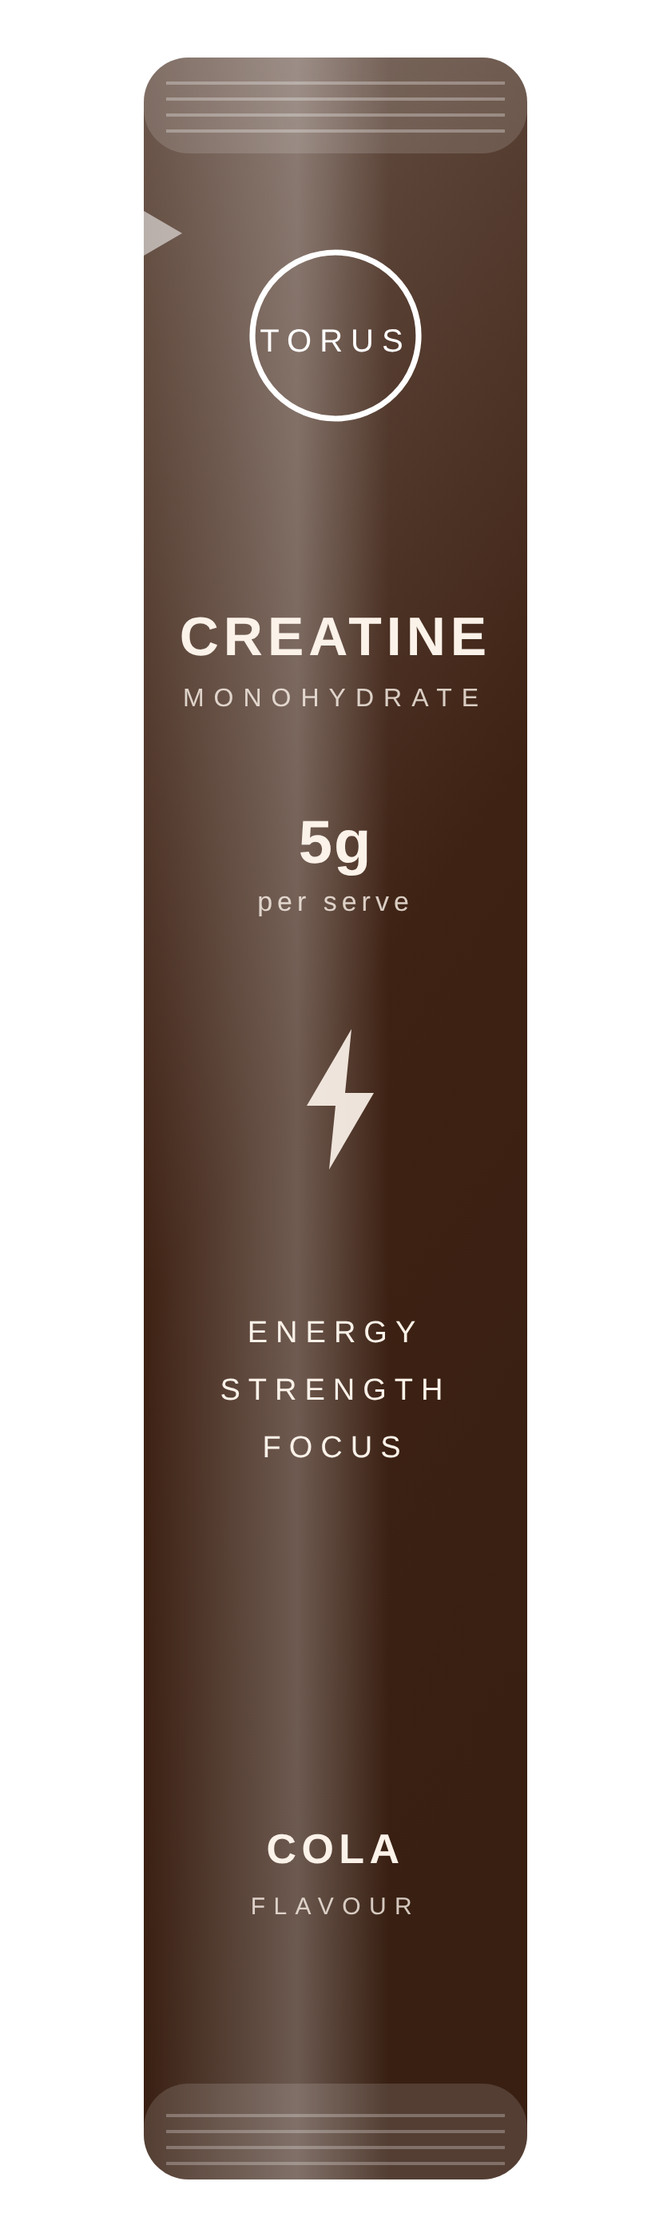
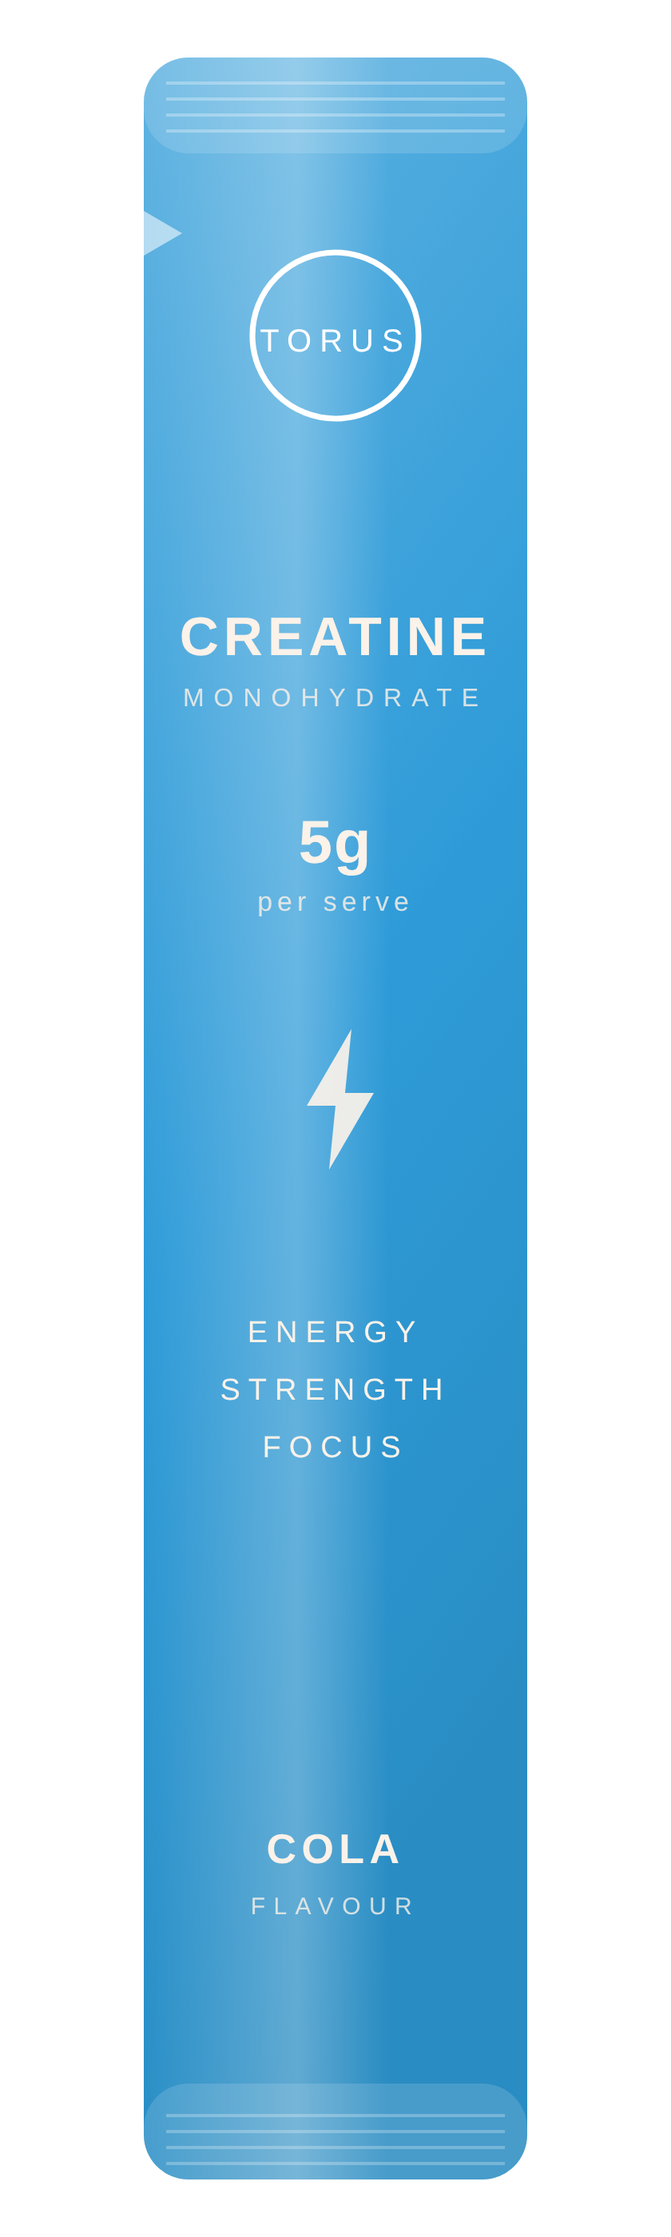
Add files via upload

diff --git a/site/product.html b/site/product.html
@@ -10,7 +10,7 @@
   --ink:#1A1613; --cream:#FBF3EF; --paper:#FFFFFF; --muted:#6C6353; --soft:#EFE7D9;
   --line:rgba(26,22,19,.10); --accent:#E2482F; --accent2:#F2A20C;
   --cb:#5E4230; --mg:#ED9A0C; --sb:#C8253A; --pf:#E2620F; --gp:#55348F;
-  --co:#3E2214; --rl:#BE335F; --pn:#F0824E; --wm:#ED4A60;
+  --co:#2E9BD8; --rl:#BE335F; --pn:#F0824E; --wm:#ED4A60;
   --stone:#8C8378; --warm:#F7F1E6; --blue:#4A90C2; --sky:#EEF4FB; --pink:#E36B8A;
   --yellow:#F2A20C; --mint:#3FB58A; --purple:#7A5BD8; --coral:#E2482F;
 }
@@ -125,7 +125,7 @@ p{margin:0}
 .life p{margin-top:16px;font-size:16.5px;line-height:1.62;color:var(--muted);max-width:430px}
 .life-badges{display:flex;gap:10px;flex-wrap:wrap;margin:22px 0 26px}
 .life-photo{position:relative;height:500px;border-radius:26px;overflow:hidden;
-  background:linear-gradient(150deg,#FFE1C6,#FFC7D2 55%,#CFE0FA);box-shadow:0 30px 60px -30px rgba(70,40,20,.4)}
+  background:linear-gradient(rgba(18,12,8,.10),rgba(18,12,8,.22)),url(photos/lifeguard.jpg) left center/cover;box-shadow:0 30px 60px -30px rgba(70,40,20,.4)}
 .life-photo .note{position:absolute;inset:0;display:grid;place-items:center;text-align:center;padding:24px}
 .life-photo .note span{font-family:'Jost',sans-serif;font-weight:500;font-size:12.5px;letter-spacing:.06em;color:rgba(26,22,19,.6);
   border:1.5px dashed rgba(26,22,19,.35);border-radius:100px;padding:10px 20px;background:rgba(255,255,255,.5)}
@@ -188,11 +188,18 @@ p{margin:0}
 .rev .who{font-family:'Jost',sans-serif;font-weight:500;font-size:12px;color:var(--muted);text-transform:uppercase;letter-spacing:.08em;margin-top:auto}
 
 /* big cta */
-.cta{position:relative;overflow:hidden;background:linear-gradient(135deg,#E2482F,#F2842C);color:#fff}
+.cta{position:relative;overflow:hidden;background:linear-gradient(rgba(226,72,47,.50),rgba(178,42,18,.62)),url(photos/flag-tower.jpg) center 64%/cover;color:#fff}
 .cta-in{position:relative;z-index:2;text-align:center;padding:96px 0}
 .cta-in h2{font-size:60px;font-weight:400;color:#fff}
 .cta-in p{margin:18px auto 0;font-size:18px;max-width:500px;color:#fff;opacity:.95}
 .cta-note{margin-top:16px;font-family:'Caveat',cursive;font-weight:600;font-size:22px;color:#fff}
+
+/* Gold Coast photo band */
+.gcband{position:relative;min-height:460px;display:grid;place-items:center;color:#fff;
+  background:linear-gradient(rgba(15,20,30,.42),rgba(15,20,30,.52)),url(photos/skyline.jpg) center 42%/cover}
+.gcband-in{position:relative;z-index:2;text-align:center;max-width:680px;padding:80px 24px}
+.gcband h2{font-size:48px;font-weight:400;color:#fff;margin-top:14px}
+.gcband p{margin-top:16px;font-size:17px;line-height:1.6;color:#fff;opacity:.92}
 
 /* faq */
 .faq{max-width:860px;margin:52px auto 0}
@@ -369,7 +376,7 @@ img,svg{max-width:100%}
         <p class="desc">Smooth roasted coffee, 5g of creatine monohydrate, and nothing that tastes like a supplement. Stir it into your morning and the daily habit takes care of itself.</p>
         <div style="font-family:'Jost';font-weight:600;font-size:12px;letter-spacing:.14em;text-transform:uppercase;color:var(--stone);margin-top:24px">Choose flavour</div>
         <div class="swatches">
-          <div class="sw on" style="background:#5E4230" title="Cold Brew"></div><div class="sw" style="background:#ED9A0C" title="Tropical Mango"></div><div class="sw" style="background:#C8253A" title="Strawberry"></div><div class="sw" style="background:#E2620F" title="Passionfruit Crush"></div><div class="sw" style="background:#55348F" title="Grape"></div><div class="sw" style="background:#3E2214" title="Cola"></div><div class="sw" style="background:#BE335F" title="Raspberry Lemonade"></div><div class="sw" style="background:#F0824E" title="Peach Nectar"></div><div class="sw" style="background:#ED4A60" title="Watermelon"></div>
+          <div class="sw on" style="background:#5E4230" title="Cold Brew"></div><div class="sw" style="background:#ED9A0C" title="Tropical Mango"></div><div class="sw" style="background:#C8253A" title="Strawberry"></div><div class="sw" style="background:#E2620F" title="Passionfruit Crush"></div><div class="sw" style="background:#55348F" title="Grape"></div><div class="sw" style="background:#2E9BD8" title="Cola"></div><div class="sw" style="background:#BE335F" title="Raspberry Lemonade"></div><div class="sw" style="background:#F0824E" title="Peach Nectar"></div><div class="sw" style="background:#ED4A60" title="Watermelon"></div>
         </div>
         <div class="plan">
           <div class="opt on"><div class="t">Subscribe · save [X]%</div><div class="s">Delivered every [4] weeks. Pause any time.</div></div>

diff --git a/site/contact.html b/site/contact.html
@@ -10,7 +10,7 @@
   --ink:#1A1613; --cream:#FBF3EF; --paper:#FFFFFF; --muted:#6C6353; --soft:#EFE7D9;
   --line:rgba(26,22,19,.10); --accent:#E2482F; --accent2:#F2A20C;
   --cb:#5E4230; --mg:#ED9A0C; --sb:#C8253A; --pf:#E2620F; --gp:#55348F;
-  --co:#3E2214; --rl:#BE335F; --pn:#F0824E; --wm:#ED4A60;
+  --co:#2E9BD8; --rl:#BE335F; --pn:#F0824E; --wm:#ED4A60;
   --stone:#8C8378; --warm:#F7F1E6; --blue:#4A90C2; --sky:#EEF4FB; --pink:#E36B8A;
   --yellow:#F2A20C; --mint:#3FB58A; --purple:#7A5BD8; --coral:#E2482F;
 }
@@ -125,7 +125,7 @@ p{margin:0}
 .life p{margin-top:16px;font-size:16.5px;line-height:1.62;color:var(--muted);max-width:430px}
 .life-badges{display:flex;gap:10px;flex-wrap:wrap;margin:22px 0 26px}
 .life-photo{position:relative;height:500px;border-radius:26px;overflow:hidden;
-  background:linear-gradient(150deg,#FFE1C6,#FFC7D2 55%,#CFE0FA);box-shadow:0 30px 60px -30px rgba(70,40,20,.4)}
+  background:linear-gradient(rgba(18,12,8,.10),rgba(18,12,8,.22)),url(photos/lifeguard.jpg) left center/cover;box-shadow:0 30px 60px -30px rgba(70,40,20,.4)}
 .life-photo .note{position:absolute;inset:0;display:grid;place-items:center;text-align:center;padding:24px}
 .life-photo .note span{font-family:'Jost',sans-serif;font-weight:500;font-size:12.5px;letter-spacing:.06em;color:rgba(26,22,19,.6);
   border:1.5px dashed rgba(26,22,19,.35);border-radius:100px;padding:10px 20px;background:rgba(255,255,255,.5)}
@@ -188,11 +188,18 @@ p{margin:0}
 .rev .who{font-family:'Jost',sans-serif;font-weight:500;font-size:12px;color:var(--muted);text-transform:uppercase;letter-spacing:.08em;margin-top:auto}
 
 /* big cta */
-.cta{position:relative;overflow:hidden;background:linear-gradient(135deg,#E2482F,#F2842C);color:#fff}
+.cta{position:relative;overflow:hidden;background:linear-gradient(rgba(226,72,47,.50),rgba(178,42,18,.62)),url(photos/flag-tower.jpg) center 64%/cover;color:#fff}
 .cta-in{position:relative;z-index:2;text-align:center;padding:96px 0}
 .cta-in h2{font-size:60px;font-weight:400;color:#fff}
 .cta-in p{margin:18px auto 0;font-size:18px;max-width:500px;color:#fff;opacity:.95}
 .cta-note{margin-top:16px;font-family:'Caveat',cursive;font-weight:600;font-size:22px;color:#fff}
+
+/* Gold Coast photo band */
+.gcband{position:relative;min-height:460px;display:grid;place-items:center;color:#fff;
+  background:linear-gradient(rgba(15,20,30,.42),rgba(15,20,30,.52)),url(photos/skyline.jpg) center 42%/cover}
+.gcband-in{position:relative;z-index:2;text-align:center;max-width:680px;padding:80px 24px}
+.gcband h2{font-size:48px;font-weight:400;color:#fff;margin-top:14px}
+.gcband p{margin-top:16px;font-size:17px;line-height:1.6;color:#fff;opacity:.92}
 
 /* faq */
 .faq{max-width:860px;margin:52px auto 0}
@@ -273,6 +280,9 @@ p{margin:0}
     .form label{display:block;font-family:'Jost';font-weight:600;font-size:13px;margin:16px 0 6px}
     .form input,.form textarea{width:100%;border:1px solid var(--line);border-radius:12px;padding:13px 14px;font-family:'Inter';font-weight:600;font-size:15px;background:var(--warm)}
     .form textarea{min-height:120px;resize:vertical}
+    .jeep-hero{position:relative;overflow:hidden;text-align:center;
+      background:linear-gradient(rgba(12,14,20,.52),rgba(12,14,20,.62)),url(photos/jeep.jpg) center 42%/cover}
+    .jeep-hero h1,.jeep-hero p,.jeep-hero .eyebrow{position:relative;z-index:2}
   </style>
 <style>
 .nav-links a.on{color:var(--accent)}
@@ -318,11 +328,11 @@ img,svg{max-width:100%}
     <a href="index.html" class="mark m50"><span>TORUS</span></a>
     <div class="nav-links"><a href="shop.html">Shop</a><a href="name.html">The Name</a><a href="science.html">Science</a><a href="reviews.html">Reviews</a><a href="reviews.html#faq">FAQ</a><a href="shop.html" class="btn sm">Shop now</a></div>
   </div></div>
-<div class="subhero bg-mint" style="padding-bottom:44px"><div class="dotgrid"></div><div class="glow" style="width:400px;height:400px;background:#B9F0DC;opacity:.16;top:-130px;right:-70px"></div>
+<div class="subhero jeep-hero" style="padding:100px 0 88px">
   <div class="wrap">
-    <div class="eyebrow">Say hello</div>
-    <h1>Let's talk.</h1>
-    <p>Questions about a flavour, an order, wholesale or press? We're quick to reply — usually within [one working day].</p>
+    <div class="eyebrow" style="color:#fff;opacity:.9">Say hello</div>
+    <h1 style="color:#fff">Let's talk.</h1>
+    <p style="color:#fff;opacity:.92">Questions about a flavour, an order, wholesale or press? We're quick to reply — usually within [one working day].</p>
   </div>
 </div>
 <section class="sec" style="padding-top:40px">

diff --git a/site/index.html b/site/index.html
@@ -10,7 +10,7 @@
   --ink:#1A1613; --cream:#FBF3EF; --paper:#FFFFFF; --muted:#6C6353; --soft:#EFE7D9;
   --line:rgba(26,22,19,.10); --accent:#E2482F; --accent2:#F2A20C;
   --cb:#5E4230; --mg:#ED9A0C; --sb:#C8253A; --pf:#E2620F; --gp:#55348F;
-  --co:#3E2214; --rl:#BE335F; --pn:#F0824E; --wm:#ED4A60;
+  --co:#2E9BD8; --rl:#BE335F; --pn:#F0824E; --wm:#ED4A60;
   --stone:#8C8378; --warm:#F7F1E6; --blue:#4A90C2; --sky:#EEF4FB; --pink:#E36B8A;
   --yellow:#F2A20C; --mint:#3FB58A; --purple:#7A5BD8; --coral:#E2482F;
 }
@@ -125,7 +125,7 @@ p{margin:0}
 .life p{margin-top:16px;font-size:16.5px;line-height:1.62;color:var(--muted);max-width:430px}
 .life-badges{display:flex;gap:10px;flex-wrap:wrap;margin:22px 0 26px}
 .life-photo{position:relative;height:500px;border-radius:26px;overflow:hidden;
-  background:linear-gradient(150deg,#FFE1C6,#FFC7D2 55%,#CFE0FA);box-shadow:0 30px 60px -30px rgba(70,40,20,.4)}
+  background:linear-gradient(rgba(18,12,8,.10),rgba(18,12,8,.22)),url(photos/lifeguard.jpg) left center/cover;box-shadow:0 30px 60px -30px rgba(70,40,20,.4)}
 .life-photo .note{position:absolute;inset:0;display:grid;place-items:center;text-align:center;padding:24px}
 .life-photo .note span{font-family:'Jost',sans-serif;font-weight:500;font-size:12.5px;letter-spacing:.06em;color:rgba(26,22,19,.6);
   border:1.5px dashed rgba(26,22,19,.35);border-radius:100px;padding:10px 20px;background:rgba(255,255,255,.5)}
@@ -188,11 +188,18 @@ p{margin:0}
 .rev .who{font-family:'Jost',sans-serif;font-weight:500;font-size:12px;color:var(--muted);text-transform:uppercase;letter-spacing:.08em;margin-top:auto}
 
 /* big cta */
-.cta{position:relative;overflow:hidden;background:linear-gradient(135deg,#E2482F,#F2842C);color:#fff}
+.cta{position:relative;overflow:hidden;background:linear-gradient(rgba(226,72,47,.50),rgba(178,42,18,.62)),url(photos/flag-tower.jpg) center 64%/cover;color:#fff}
 .cta-in{position:relative;z-index:2;text-align:center;padding:96px 0}
 .cta-in h2{font-size:60px;font-weight:400;color:#fff}
 .cta-in p{margin:18px auto 0;font-size:18px;max-width:500px;color:#fff;opacity:.95}
 .cta-note{margin-top:16px;font-family:'Caveat',cursive;font-weight:600;font-size:22px;color:#fff}
+
+/* Gold Coast photo band */
+.gcband{position:relative;min-height:460px;display:grid;place-items:center;color:#fff;
+  background:linear-gradient(rgba(15,20,30,.42),rgba(15,20,30,.52)),url(photos/skyline.jpg) center 42%/cover}
+.gcband-in{position:relative;z-index:2;text-align:center;max-width:680px;padding:80px 24px}
+.gcband h2{font-size:48px;font-weight:400;color:#fff;margin-top:14px}
+.gcband p{margin-top:16px;font-size:17px;line-height:1.6;color:#fff;opacity:.92}
 
 /* faq */
 .faq{max-width:860px;margin:52px auto 0}
@@ -375,7 +382,6 @@ img,svg{max-width:100%}
         <a href="shop.html" class="btn">Shop the range</a>
       </div>
       <div class="life-photo">
-        <div class="note"><span>Drop in your annotated lifestyle photo</span></div>
         <span class="hand lp-1">good stuff! <svg class="dood" width="30" height="28" viewBox="0 0 30 28" fill="none" stroke="currentColor" stroke-width="2.4" stroke-linecap="round"><path d="M15 25C6 18 3 12 6 7c2-3 6-3 9 1 3-4 7-4 9-1 3 5 0 11-9 18z"/></svg></span>
         <span class="hand lp-2">small sachet…<br>big vibes</span>
         <span class="dood d1"><svg class="dood" width="26" height="26" viewBox="0 0 26 26" fill="none" stroke="currentColor" stroke-width="2.2" stroke-linecap="round"><path d="M13 2v8M13 16v8M2 13h8M16 13h8"/></svg></span>
@@ -569,6 +575,15 @@ img,svg{max-width:100%}
         <div class="faq-row"><div class="faq-q">Is it only for the gym?</div><div class="faq-a">No — the evidence covers strength and recovery, and research into focus and mental stamina is growing fast.</div></div>
         <div class="faq-row"><div class="faq-q">Is it vegan and sugar-free?</div><div class="faq-a">[Confirm your formulation] — creatine monohydrate itself is vegan-friendly. Add your sweetener, allergen and dietary details here.</div></div>
       </div>
+    </div>
+  </section>
+
+  <!-- GOLD COAST BAND -->
+  <section class="gcband">
+    <div class="gcband-in">
+      <div class="eyebrow" style="color:#fff;opacity:.9">Made on the Gold Coast</div>
+      <h2>Built by the beach,<br>for the daily grind.</h2>
+      <p>Formulated and packed on Australia's Gold Coast — real creatine for real training, wherever your day takes you.</p>
     </div>
   </section>
 

diff --git a/site/name.html b/site/name.html
@@ -10,7 +10,7 @@
   --ink:#1A1613; --cream:#FBF3EF; --paper:#FFFFFF; --muted:#6C6353; --soft:#EFE7D9;
   --line:rgba(26,22,19,.10); --accent:#E2482F; --accent2:#F2A20C;
   --cb:#5E4230; --mg:#ED9A0C; --sb:#C8253A; --pf:#E2620F; --gp:#55348F;
-  --co:#3E2214; --rl:#BE335F; --pn:#F0824E; --wm:#ED4A60;
+  --co:#2E9BD8; --rl:#BE335F; --pn:#F0824E; --wm:#ED4A60;
   --stone:#8C8378; --warm:#F7F1E6; --blue:#4A90C2; --sky:#EEF4FB; --pink:#E36B8A;
   --yellow:#F2A20C; --mint:#3FB58A; --purple:#7A5BD8; --coral:#E2482F;
 }
@@ -125,7 +125,7 @@ p{margin:0}
 .life p{margin-top:16px;font-size:16.5px;line-height:1.62;color:var(--muted);max-width:430px}
 .life-badges{display:flex;gap:10px;flex-wrap:wrap;margin:22px 0 26px}
 .life-photo{position:relative;height:500px;border-radius:26px;overflow:hidden;
-  background:linear-gradient(150deg,#FFE1C6,#FFC7D2 55%,#CFE0FA);box-shadow:0 30px 60px -30px rgba(70,40,20,.4)}
+  background:linear-gradient(rgba(18,12,8,.10),rgba(18,12,8,.22)),url(photos/lifeguard.jpg) left center/cover;box-shadow:0 30px 60px -30px rgba(70,40,20,.4)}
 .life-photo .note{position:absolute;inset:0;display:grid;place-items:center;text-align:center;padding:24px}
 .life-photo .note span{font-family:'Jost',sans-serif;font-weight:500;font-size:12.5px;letter-spacing:.06em;color:rgba(26,22,19,.6);
   border:1.5px dashed rgba(26,22,19,.35);border-radius:100px;padding:10px 20px;background:rgba(255,255,255,.5)}
@@ -188,11 +188,18 @@ p{margin:0}
 .rev .who{font-family:'Jost',sans-serif;font-weight:500;font-size:12px;color:var(--muted);text-transform:uppercase;letter-spacing:.08em;margin-top:auto}
 
 /* big cta */
-.cta{position:relative;overflow:hidden;background:linear-gradient(135deg,#E2482F,#F2842C);color:#fff}
+.cta{position:relative;overflow:hidden;background:linear-gradient(rgba(226,72,47,.50),rgba(178,42,18,.62)),url(photos/flag-tower.jpg) center 64%/cover;color:#fff}
 .cta-in{position:relative;z-index:2;text-align:center;padding:96px 0}
 .cta-in h2{font-size:60px;font-weight:400;color:#fff}
 .cta-in p{margin:18px auto 0;font-size:18px;max-width:500px;color:#fff;opacity:.95}
 .cta-note{margin-top:16px;font-family:'Caveat',cursive;font-weight:600;font-size:22px;color:#fff}
+
+/* Gold Coast photo band */
+.gcband{position:relative;min-height:460px;display:grid;place-items:center;color:#fff;
+  background:linear-gradient(rgba(15,20,30,.42),rgba(15,20,30,.52)),url(photos/skyline.jpg) center 42%/cover}
+.gcband-in{position:relative;z-index:2;text-align:center;max-width:680px;padding:80px 24px}
+.gcband h2{font-size:48px;font-weight:400;color:#fff;margin-top:14px}
+.gcband p{margin-top:16px;font-size:17px;line-height:1.6;color:#fff;opacity:.92}
 
 /* faq */
 .faq{max-width:860px;margin:52px auto 0}

diff --git a/site/reviews.html b/site/reviews.html
@@ -10,7 +10,7 @@
   --ink:#1A1613; --cream:#FBF3EF; --paper:#FFFFFF; --muted:#6C6353; --soft:#EFE7D9;
   --line:rgba(26,22,19,.10); --accent:#E2482F; --accent2:#F2A20C;
   --cb:#5E4230; --mg:#ED9A0C; --sb:#C8253A; --pf:#E2620F; --gp:#55348F;
-  --co:#3E2214; --rl:#BE335F; --pn:#F0824E; --wm:#ED4A60;
+  --co:#2E9BD8; --rl:#BE335F; --pn:#F0824E; --wm:#ED4A60;
   --stone:#8C8378; --warm:#F7F1E6; --blue:#4A90C2; --sky:#EEF4FB; --pink:#E36B8A;
   --yellow:#F2A20C; --mint:#3FB58A; --purple:#7A5BD8; --coral:#E2482F;
 }
@@ -125,7 +125,7 @@ p{margin:0}
 .life p{margin-top:16px;font-size:16.5px;line-height:1.62;color:var(--muted);max-width:430px}
 .life-badges{display:flex;gap:10px;flex-wrap:wrap;margin:22px 0 26px}
 .life-photo{position:relative;height:500px;border-radius:26px;overflow:hidden;
-  background:linear-gradient(150deg,#FFE1C6,#FFC7D2 55%,#CFE0FA);box-shadow:0 30px 60px -30px rgba(70,40,20,.4)}
+  background:linear-gradient(rgba(18,12,8,.10),rgba(18,12,8,.22)),url(photos/lifeguard.jpg) left center/cover;box-shadow:0 30px 60px -30px rgba(70,40,20,.4)}
 .life-photo .note{position:absolute;inset:0;display:grid;place-items:center;text-align:center;padding:24px}
 .life-photo .note span{font-family:'Jost',sans-serif;font-weight:500;font-size:12.5px;letter-spacing:.06em;color:rgba(26,22,19,.6);
   border:1.5px dashed rgba(26,22,19,.35);border-radius:100px;padding:10px 20px;background:rgba(255,255,255,.5)}
@@ -188,11 +188,18 @@ p{margin:0}
 .rev .who{font-family:'Jost',sans-serif;font-weight:500;font-size:12px;color:var(--muted);text-transform:uppercase;letter-spacing:.08em;margin-top:auto}
 
 /* big cta */
-.cta{position:relative;overflow:hidden;background:linear-gradient(135deg,#E2482F,#F2842C);color:#fff}
+.cta{position:relative;overflow:hidden;background:linear-gradient(rgba(226,72,47,.50),rgba(178,42,18,.62)),url(photos/flag-tower.jpg) center 64%/cover;color:#fff}
 .cta-in{position:relative;z-index:2;text-align:center;padding:96px 0}
 .cta-in h2{font-size:60px;font-weight:400;color:#fff}
 .cta-in p{margin:18px auto 0;font-size:18px;max-width:500px;color:#fff;opacity:.95}
 .cta-note{margin-top:16px;font-family:'Caveat',cursive;font-weight:600;font-size:22px;color:#fff}
+
+/* Gold Coast photo band */
+.gcband{position:relative;min-height:460px;display:grid;place-items:center;color:#fff;
+  background:linear-gradient(rgba(15,20,30,.42),rgba(15,20,30,.52)),url(photos/skyline.jpg) center 42%/cover}
+.gcband-in{position:relative;z-index:2;text-align:center;max-width:680px;padding:80px 24px}
+.gcband h2{font-size:48px;font-weight:400;color:#fff;margin-top:14px}
+.gcband p{margin-top:16px;font-size:17px;line-height:1.6;color:#fff;opacity:.92}
 
 /* faq */
 .faq{max-width:860px;margin:52px auto 0}

diff --git a/site/science.html b/site/science.html
@@ -10,7 +10,7 @@
   --ink:#1A1613; --cream:#FBF3EF; --paper:#FFFFFF; --muted:#6C6353; --soft:#EFE7D9;
   --line:rgba(26,22,19,.10); --accent:#E2482F; --accent2:#F2A20C;
   --cb:#5E4230; --mg:#ED9A0C; --sb:#C8253A; --pf:#E2620F; --gp:#55348F;
-  --co:#3E2214; --rl:#BE335F; --pn:#F0824E; --wm:#ED4A60;
+  --co:#2E9BD8; --rl:#BE335F; --pn:#F0824E; --wm:#ED4A60;
   --stone:#8C8378; --warm:#F7F1E6; --blue:#4A90C2; --sky:#EEF4FB; --pink:#E36B8A;
   --yellow:#F2A20C; --mint:#3FB58A; --purple:#7A5BD8; --coral:#E2482F;
 }
@@ -125,7 +125,7 @@ p{margin:0}
 .life p{margin-top:16px;font-size:16.5px;line-height:1.62;color:var(--muted);max-width:430px}
 .life-badges{display:flex;gap:10px;flex-wrap:wrap;margin:22px 0 26px}
 .life-photo{position:relative;height:500px;border-radius:26px;overflow:hidden;
-  background:linear-gradient(150deg,#FFE1C6,#FFC7D2 55%,#CFE0FA);box-shadow:0 30px 60px -30px rgba(70,40,20,.4)}
+  background:linear-gradient(rgba(18,12,8,.10),rgba(18,12,8,.22)),url(photos/lifeguard.jpg) left center/cover;box-shadow:0 30px 60px -30px rgba(70,40,20,.4)}
 .life-photo .note{position:absolute;inset:0;display:grid;place-items:center;text-align:center;padding:24px}
 .life-photo .note span{font-family:'Jost',sans-serif;font-weight:500;font-size:12.5px;letter-spacing:.06em;color:rgba(26,22,19,.6);
   border:1.5px dashed rgba(26,22,19,.35);border-radius:100px;padding:10px 20px;background:rgba(255,255,255,.5)}
@@ -188,11 +188,18 @@ p{margin:0}
 .rev .who{font-family:'Jost',sans-serif;font-weight:500;font-size:12px;color:var(--muted);text-transform:uppercase;letter-spacing:.08em;margin-top:auto}
 
 /* big cta */
-.cta{position:relative;overflow:hidden;background:linear-gradient(135deg,#E2482F,#F2842C);color:#fff}
+.cta{position:relative;overflow:hidden;background:linear-gradient(rgba(226,72,47,.50),rgba(178,42,18,.62)),url(photos/flag-tower.jpg) center 64%/cover;color:#fff}
 .cta-in{position:relative;z-index:2;text-align:center;padding:96px 0}
 .cta-in h2{font-size:60px;font-weight:400;color:#fff}
 .cta-in p{margin:18px auto 0;font-size:18px;max-width:500px;color:#fff;opacity:.95}
 .cta-note{margin-top:16px;font-family:'Caveat',cursive;font-weight:600;font-size:22px;color:#fff}
+
+/* Gold Coast photo band */
+.gcband{position:relative;min-height:460px;display:grid;place-items:center;color:#fff;
+  background:linear-gradient(rgba(15,20,30,.42),rgba(15,20,30,.52)),url(photos/skyline.jpg) center 42%/cover}
+.gcband-in{position:relative;z-index:2;text-align:center;max-width:680px;padding:80px 24px}
+.gcband h2{font-size:48px;font-weight:400;color:#fff;margin-top:14px}
+.gcband p{margin-top:16px;font-size:17px;line-height:1.6;color:#fff;opacity:.92}
 
 /* faq */
 .faq{max-width:860px;margin:52px auto 0}

diff --git a/site/shop.html b/site/shop.html
@@ -10,7 +10,7 @@
   --ink:#1A1613; --cream:#FBF3EF; --paper:#FFFFFF; --muted:#6C6353; --soft:#EFE7D9;
   --line:rgba(26,22,19,.10); --accent:#E2482F; --accent2:#F2A20C;
   --cb:#5E4230; --mg:#ED9A0C; --sb:#C8253A; --pf:#E2620F; --gp:#55348F;
-  --co:#3E2214; --rl:#BE335F; --pn:#F0824E; --wm:#ED4A60;
+  --co:#2E9BD8; --rl:#BE335F; --pn:#F0824E; --wm:#ED4A60;
   --stone:#8C8378; --warm:#F7F1E6; --blue:#4A90C2; --sky:#EEF4FB; --pink:#E36B8A;
   --yellow:#F2A20C; --mint:#3FB58A; --purple:#7A5BD8; --coral:#E2482F;
 }
@@ -125,7 +125,7 @@ p{margin:0}
 .life p{margin-top:16px;font-size:16.5px;line-height:1.62;color:var(--muted);max-width:430px}
 .life-badges{display:flex;gap:10px;flex-wrap:wrap;margin:22px 0 26px}
 .life-photo{position:relative;height:500px;border-radius:26px;overflow:hidden;
-  background:linear-gradient(150deg,#FFE1C6,#FFC7D2 55%,#CFE0FA);box-shadow:0 30px 60px -30px rgba(70,40,20,.4)}
+  background:linear-gradient(rgba(18,12,8,.10),rgba(18,12,8,.22)),url(photos/lifeguard.jpg) left center/cover;box-shadow:0 30px 60px -30px rgba(70,40,20,.4)}
 .life-photo .note{position:absolute;inset:0;display:grid;place-items:center;text-align:center;padding:24px}
 .life-photo .note span{font-family:'Jost',sans-serif;font-weight:500;font-size:12.5px;letter-spacing:.06em;color:rgba(26,22,19,.6);
   border:1.5px dashed rgba(26,22,19,.35);border-radius:100px;padding:10px 20px;background:rgba(255,255,255,.5)}
@@ -188,11 +188,18 @@ p{margin:0}
 .rev .who{font-family:'Jost',sans-serif;font-weight:500;font-size:12px;color:var(--muted);text-transform:uppercase;letter-spacing:.08em;margin-top:auto}
 
 /* big cta */
-.cta{position:relative;overflow:hidden;background:linear-gradient(135deg,#E2482F,#F2842C);color:#fff}
+.cta{position:relative;overflow:hidden;background:linear-gradient(rgba(226,72,47,.50),rgba(178,42,18,.62)),url(photos/flag-tower.jpg) center 64%/cover;color:#fff}
 .cta-in{position:relative;z-index:2;text-align:center;padding:96px 0}
 .cta-in h2{font-size:60px;font-weight:400;color:#fff}
 .cta-in p{margin:18px auto 0;font-size:18px;max-width:500px;color:#fff;opacity:.95}
 .cta-note{margin-top:16px;font-family:'Caveat',cursive;font-weight:600;font-size:22px;color:#fff}
+
+/* Gold Coast photo band */
+.gcband{position:relative;min-height:460px;display:grid;place-items:center;color:#fff;
+  background:linear-gradient(rgba(15,20,30,.42),rgba(15,20,30,.52)),url(photos/skyline.jpg) center 42%/cover}
+.gcband-in{position:relative;z-index:2;text-align:center;max-width:680px;padding:80px 24px}
+.gcband h2{font-size:48px;font-weight:400;color:#fff;margin-top:14px}
+.gcband p{margin-top:16px;font-size:17px;line-height:1.6;color:#fff;opacity:.92}
 
 /* faq */
 .faq{max-width:860px;margin:52px auto 0}
